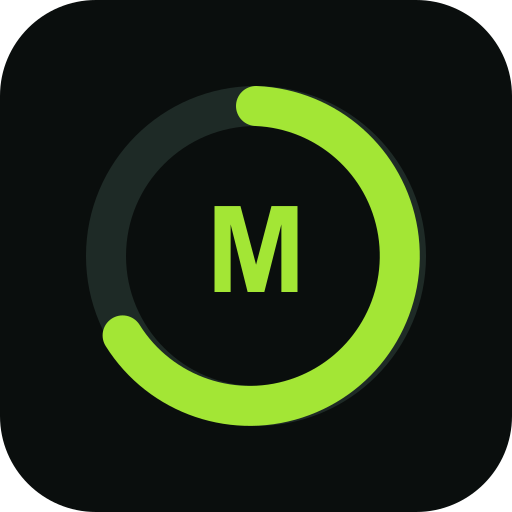
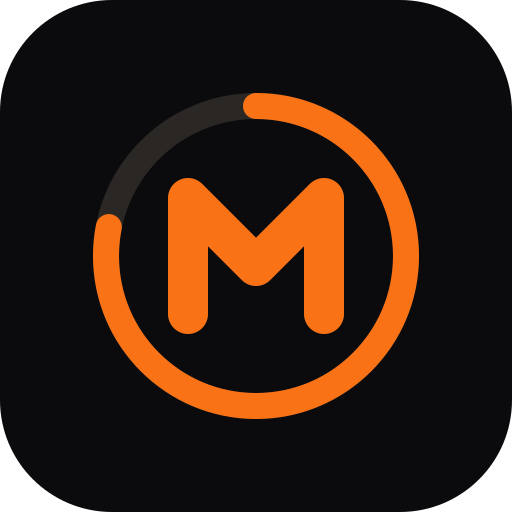
Update MacroVerse production branding

diff --git a/src/app/layout.tsx b/src/app/layout.tsx
@@ -6,11 +6,12 @@ import { PwaRegister } from "@/components/PwaRegister";
 const inter = Inter({ subsets: ["latin"], variable: "--font-inter" });
 
 export const metadata: Metadata = {
-  title: { default: "Macroverse", template: "%s · Macroverse" },
+  metadataBase: new URL("https://macroverse.vercel.app"),
+  title: { default: "MacroVerse", template: "%s · MacroVerse" },
   description: "Community-driven macro tracking, recipes, meal prep, and fitness.",
   manifest: "/manifest.webmanifest",
   icons: { icon: "/icon-192.png", apple: "/icon-192.png" },
-  appleWebApp: { capable: true, title: "Macroverse", statusBarStyle: "black-translucent" },
+  appleWebApp: { capable: true, title: "MacroVerse", statusBarStyle: "black-translucent" },
 };
 
 export const viewport: Viewport = {

diff --git a/public/sw.js b/public/sw.js
@@ -1,4 +1,4 @@
-/* Macroverse service worker (docs/08 dev phase 7): PWA installability + an offline
+/* MacroVerse service worker (docs/08 dev phase 7): PWA installability + an offline
  * shell for previously-loaded content. Strategy:
  *  - navigations: network-first, falling back to the cached copy of that page
  *  - static assets (/_next/static, icons): cache-first (immutable, hashed URLs)

diff --git a/scripts/seed.ts b/scripts/seed.ts
@@ -715,7 +715,7 @@ async function main() {
     { email: "[email redacted]", username: "prep_king", displayName: "Marcus (Prep King)", bio: "I cook once and eat all week. Budget meal prep, big batches, zero sad desk lunches.", goal: "muscle_gain", reputation: 350 },
     { email: "[email redacted]", username: "coach_dan", displayName: "Coach Dan", bio: "Strength coach. Protein evangelist. Your squat is high.", goal: "performance", reputation: 290 },
     { email: "[email redacted]", username: "demo", displayName: "Demo User", bio: "Just here trying to hit my macros.", goal: "fat_loss", reputation: 10 },
-    { email: "[email redacted]", username: "macroverse_admin", displayName: "Macroverse Admin", bio: "Keeping the nutrition data honest.", goal: "maintenance", reputation: 100, role: "admin" },
+    { email: "[email redacted]", username: "macroverse_admin", displayName: "MacroVerse Admin", bio: "Keeping the nutrition data honest.", goal: "maintenance", reputation: 100, role: "admin" },
   ];
   const userByUsername = new Map<string, string>();
   for (const d of defs) {

diff --git a/src/actions/barcode.ts b/src/actions/barcode.ts
@@ -45,7 +45,7 @@ export async function lookupBarcode(
   try {
     const res = await fetch(
       `https://world.openfoodfacts.org/api/v2/product/${d.barcode}.json?fields=product_name,brands,nutriments`,
-      { headers: { "User-Agent": "Macroverse/0.1 (macro tracking app)" }, signal: AbortSignal.timeout(8000) },
+      { headers: { "User-Agent": "MacroVerse/1.0 (macro tracking app)" }, signal: AbortSignal.timeout(8000) },
     );
     if (res.status === 404) return { error: "Not in Open Food Facts — use Quick add or create the food manually." };
     if (!res.ok) return { error: "Open Food Facts is unreachable right now — try again in a minute." };

diff --git a/src/lib/restaurants.ts b/src/lib/restaurants.ts
@@ -36,7 +36,7 @@ export async function geocode(q: string): Promise<{ lat: number; lng: number; la
   try {
     const res = await fetch(
       `https://nominatim.openstreetmap.org/search?format=json&limit=1&q=${encodeURIComponent(q)}`,
-      { headers: { "User-Agent": "Macroverse/0.1 (dev)" }, next: { revalidate: 86400 } },
+      { headers: { "User-Agent": "MacroVerse/1.0 (production)" }, next: { revalidate: 86400 } },
     );
     if (!res.ok) return null;
     const hits: { lat: string; lon: string; display_name: string }[] = await res.json();

diff --git a/docs/08-mvp-roadmap-phases.md b/docs/08-mvp-roadmap-phases.md
@@ -1,4 +1,4 @@
-# Macro Map — MVP, Roadmap, Development Phases, Module Layout & Simplicity Rules
+# MacroVerse — MVP, Roadmap, Development Phases, Module Layout & Simplicity Rules
 
 ## 1. MVP feature list
 
@@ -82,14 +82,14 @@ Phases 0–3 are **built** (see [README](../README.md) for the running vertical 
 | ~~**4. Restaurants + map + progress**~~ ✅ built | Guest mode; Leaflet/OSM/Nominatim map + "Around me" ranked cross-chain list; buildable-item plate builder + combo-meal recommendation; go-to orders; progress dashboard (weight/measurements/photos) + habits tracker; personal ingredient library; favorites/frequents split on Add Food; admin CSV import with validation/changelog; feedback mechanism; fallback dataset | Open the app near a real address, get a ranked nearby recommendation, build and log a bowl, see it reflected in progress |
 | ~~**5. Workouts**~~ ✅ built | Workout logger + PRs (e1RM/volume/reps, detected on session finish, share offered not forced), community workouts + fork, official template shelf, grocery lists (recipe/plan → deduped, sectioned list), meal prep plans (composed from recipes, boards as filters) | Both remaining loggable content verticals live |
 | ~~**6. Community + safety**~~ ✅ built | Groups (public, group feed, join/leave), challenges + auto-scoring (logged/protein days, workouts, custom check-in — computed live from logs), reports pipeline (structured reasons, safety-first queue, 3-report auto-hide, macro-confidence penalty) + admin queue with immutable audit log, per-user rate limits, content warning labels | Safe to open to strangers |
-| ~~**7. Beta hardening**~~ ✅ built | Playwright on the three critical flows (log-a-day, submit-recipe, follow-and-feed — caught and fixed two real submission bugs); PWA manifest + icons + offline-shell service worker (network-first navigations, cached fallback, prod-only registration); no-scale mode suppresses all weight UI on Progress (docs/07 §4); page-level `requireUser` guard (layouts and pages render in parallel in Next 15); streak query bounded; seed covers every vertical | Public beta |
+| ~~**7. Production hardening**~~ ✅ built | Playwright on the three critical flows (log-a-day, submit-recipe, follow-and-feed — caught and fixed two real submission bugs); PWA manifest + icons + offline-shell service worker (network-first navigations, cached fallback, prod-only registration); no-scale mode suppresses all weight UI on Progress (docs/07 §4); page-level `requireUser` guard (layouts and pages render in parallel in Next 15); streak query bounded; seed covers every vertical | Stable production |
 
 Each phase ships behind nothing — the app has been deployable and self-usable since Phase 1. That ordering was deliberate for what's already built: the tracker had to be excellent *before* social, because the social layer's currency (logs, adherence, PRs) is minted by the tracker. Phase 4 reprioritizes forward from here based on where the actual golden path leads.
 
 ## 4. Files / modules to create
 
 ```
-macro-map/
+macroverse/
 ├─ drizzle/                        # migrations
 ├─ scripts/seed/                   # usda-foods.ts, exercises.ts, tags.ts, chains.ts, demo-content.ts
 ├─ src/

diff --git a/README.md b/README.md
@@ -1,8 +1,8 @@
-# Macroverse
+# MacroVerse
 
 A community-driven macro tracking, recipe, meal prep, restaurant, and workout platform — MyFitnessPal's data layer with Strava's social graph and Reddit's content ranking, minus the AI prompt box. The community is the content engine: users discover, share, vote on, save, log, and discuss recipes, meal preps, restaurant orders, and workouts created by other users.
 
-**Status:** All 8 dev phases (0–7) built — the full MVP vertical slice is running: auth (+ guest mode), onboarding, macro tracker, community recipes (+ personal ingredient library), social feed, profiles, restaurants ("Around me" map/list, build-a-bowl, go-to orders), progress dashboard + habits (+ no-scale mode), workouts (logger with PR detection, community workouts, templates), grocery lists, meal prep plans, groups, auto-scored challenges, the moderation stack (reports → admin queue → audit log, rate limits, content warnings), Playwright e2e on the critical flows, and PWA installability with an offline shell. Extended tracking from [docs/10](docs/10-health-integrations-and-tracking.md) is in: micronutrients with %DV on the diary, barcode scanning (camera or typed digits → Open Food Facts), a fasting timer, and manual sleep logging. Admin tools live at `/admin/reports` and `/admin/imports` ([email redacted] / password123). Full design in [`docs/`](docs/); deployment guide in [docs/09-deployment.md](docs/09-deployment.md).
+**Status:** Stable production app at [macroverse.vercel.app](https://macroverse.vercel.app). All 8 dev phases (0–7) are built: auth (+ guest mode), onboarding, macro tracker, community recipes (+ personal ingredient library), social feed, profiles, restaurants ("Around me" map/list, build-a-bowl, go-to orders), progress dashboard + habits (+ no-scale mode), workouts (logger with PR detection, community workouts, templates), grocery lists, meal prep plans, groups, auto-scored challenges, the moderation stack (reports → admin queue → audit log, rate limits, content warnings), Playwright e2e on the critical flows, and PWA installability with an offline shell. Extended tracking from [docs/10](docs/10-health-integrations-and-tracking.md) is in: micronutrients with %DV on the diary, barcode scanning (camera or typed digits → Open Food Facts), a fasting timer, and manual sleep logging. Admin tools live at `/admin/reports` and `/admin/imports` ([email redacted] / password123). Full design in [`docs/`](docs/); deployment guide in [docs/09-deployment.md](docs/09-deployment.md).
 
 ## Run it
 

diff --git a/docs/01-prd.md b/docs/01-prd.md
@@ -1,4 +1,4 @@
-# Macro Map — Product Requirements Document
+# MacroVerse — Product Requirements Document
 
 **Version:** 3.0 draft 1 · **Date:** 2026-07-03 · **Owner:** Zach
 

diff --git a/docs/02-architecture.md b/docs/02-architecture.md
@@ -1,4 +1,4 @@
-# Macro Map — Technical Architecture
+# MacroVerse — Technical Architecture
 
 ## 1. Recommended tech stack
 

diff --git a/docs/03-database-schema.md b/docs/03-database-schema.md
@@ -1,4 +1,4 @@
-# Macro Map — Relational Database Schema (PostgreSQL)
+# MacroVerse — Relational Database Schema (PostgreSQL)
 
 Conventions: `id uuid PK default gen_random_uuid()`; `created_at timestamptz default now()` on every table (omitted below for brevity); `updated_at` on mutable tables; soft-delete via `deleted_at` only on UGC tables; enums as Postgres enums. Denormalized counters are maintained transactionally with their interaction rows.
 

diff --git a/docs/04-screens.md b/docs/04-screens.md
@@ -1,4 +1,4 @@
-# Macro Map — Screen-by-Screen UI Plan
+# MacroVerse — Screen-by-Screen UI Plan
 
 Mobile-first responsive web. Global shell: **bottom tab bar (mobile) / left rail (desktop)** with five tabs — **Feed · Discover · Log (+) · Track · Profile**. The center **Log (+)** is a raised action button opening a sheet: *Log food · Log workout · New post · Submit recipe · Weigh in*. Everything a user does daily is ≤2 taps from anywhere. A small persistent **feedback affordance** (icon in the header, always visible, works in guest mode) opens a one-field "send feedback" sheet — separate from the content-report flow, reviewed by admins, rate-limited per session.
 

diff --git a/docs/05-social-graph-and-profiles.md b/docs/05-social-graph-and-profiles.md
@@ -1,4 +1,4 @@
-# Macro Map — Social Graph, Profiles, Feed, Groups & Challenges
+# MacroVerse — Social Graph, Profiles, Feed, Groups & Challenges
 
 ## 1. Social graph design
 